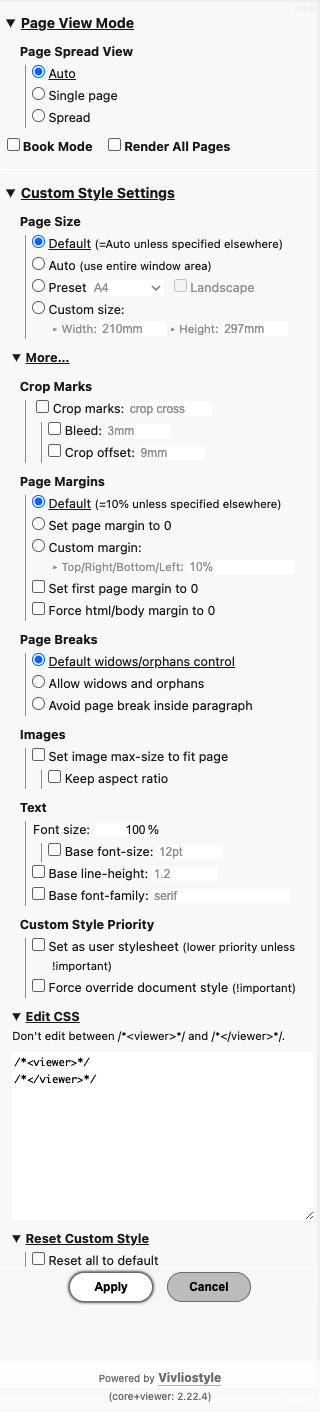
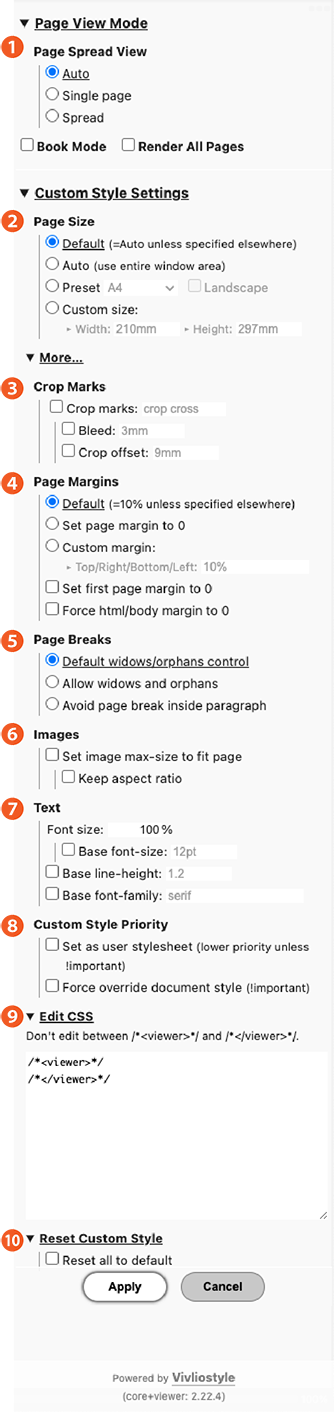
残り全て

diff --git a/ja/vivliostyle-viewer.md b/ja/vivliostyle-viewer.md
@@ -55,44 +55,59 @@ Node.js のアプリケーションで利用するには、npmパッケージ版
 
 ## 設定パネル
 
+Vivliostyle Viewer の画面右上の設定ボタン<img alt="Settings (S)" src="../images/vivliostyle-icon.png" style="width: 1.5em;"> をクリック（またはキーボードのSを押下）すると、設定パネルが表示されます。
 
+この設定パネルから各種パラメーターを設定し、“Apply” ボタンを押すことで、組版表示を変更することができます（通常は “Apply” の押下後パネルは閉じますが、設定ボタンを2度押しして開いた場合、押下後もパネルを開いたままにできます）。
 
-Vivliostyle Viewer の画面右上の設定ボタン<img alt="Settings (S)" src="../images/vivliostyle-icon.png" style="width: 1.5em;"> をクリック（または、キーボードの S キー）すると、設定パネルが表示されます。
+設定パネルで設定した内容は、URLパラメータに反映されます。そうした設定付きURLを、ブックマークしたり公開することもできます。 例： [『Cascading Style Sheets Level 2 Revision 2 (CSS 2.2) Specification』](https://vivliostyle.org/viewer/#src=https://drafts.csswg.org/css2/&style=data:,/*%3Cviewer%3E*/%0A/*%3C/viewer%3E*/%0A@page%20:first%20%7B%0A%20%20@top-left%20%7B%0A%20%20%20%20content:%20none;%0A%20%20%7D%0A%20%20@top-right%20%7B%0A%20%20%20%20content:%20none;%0A%20%20%7D%0A%20%20@bottom-center%20%7B%0A%20%20%20%20content:%20none;%0A%20%20%7D%0A%7D%0A%0A@page%20:left%20%7B%0A%20%20font-size:%200.8rem;%0A%20%20@top-left%20%7B%0A%20%20%20%20content:%20env(pub-title);%0A%20%20%7D%0A%20%20@bottom-center%20%7B%0A%20%20%20%20content:%20counter(page);%0A%20%20%7D%0A%7D%0A%0A@page%20:right%20%7B%0A%20%20font-size:%200.8rem;%0A%20%20@top-right%20%7B%0A%20%20%20%20content:%20env(doc-title);%0A%20%20%7D%0A%20%20@bottom-center%20%7B%0A%20%20%20%20content:%20counter(page);%0A%20%20%7D%0A%7D)。
 
-この設定パネルから各種パラメーターを設定し、Applyボタンを押すことで、プレビューを変更することができます（Applyで通常はパネルが閉じますが、設定ボタンを2度押しで開くと、適用してもパネルが開いたままにできます）。設定できるパラメーターは下記の通りです。
+- 凡例：◉ラジオボタン、■チェックボックス、▶折りたたまれた設定項目
 
 <img src="../images/viewer-settings-panel.png" alt="設定パネル" style="float: right; margin-left: 3rem">
 
-- **Page View Mode**
-    - **❶Page Spread View**
+- **▶Page View Mode**
+    - **❶Page Spread View**：ページ表示
+        - ◉Auto：ウインドウが見開きで表示可能な縦横比であれば、自動的に見開きにします
+        - ◉Single page：常に単一ページで表示します
+        - ◉Spread：常に見開きページで表示します
+    - ■Book Mode：チェックを入れると<a href="#urlパラメータのオプション">ブックモードになります
+    - ■Render All Pages：チェックを入れると、常に全ページをレンダリングします。正確なノンブルが表示される反面、表示まで時間がかかります。通常はチェックを入れずに使うことをお勧めします。詳細は[「全ページをレンダリング（Render All Pages）On/Off設定」](https://vivliostyle.github.io/vivliostyle_doc/ja/vivliostyle-user-group-vol1/shinyu/index.html#全ページをレンダリング（render-all-pages）onoff設定)を参照
+- **▶Custom Style Settings**
     - **❷Page Size**（ページサイズ） 
-        - Default：特に指定がないかぎり “Auto” が適用されます
-        - Auto：プレビューで開かれているウィンドウ・サイズが適用されます
-        - Preset：letter、legal、Ledger、A10〜A0、B10 (ISO)〜B0 (ISO)、JIS-B10〜JIS-B0、C10〜C0（なお、日本で使われるB判は「JIS-B」であることにご注意ください）
-        - Custom size：任意の幅と高さを指定できます。単位は CSSの単位（mm, cm, in, pt, px など）が使えます。
-    - **Page Margins**
-        - Default (=10% unless specified elsewhere)
-        - Set page margin to 0
-        - Custom margin:
-            - ‣ Top/Right/Bottom/Left: （10%）
-            - Set first page margin to 0
-            - Force html/body margin to 0
-    - **Page Breaks**
-        - Default widows/orphans control
-        - Allow widows and orphans
-        - Avoid page break inside paragraph
-    - **Images**
-        - Set image max-size to fit page
-        - Keep aspect ratio
-    - **Text**
-      - Font size:100%
-        - Base font-size:12pt
-        - Base line-height:1.2
-    - **Custom Style Priority**
-        - Set as user stylesheet (lower priority unless !important)
-        - Force override document style (!important)
-    - **Edit CSS**
-    - **Reset Custom Style**
+        - ◉Default：文書でページサイズ指定されていればそのサイズが、指定されていない場合はVivliostyle Viewerのデフォルト値、A4が適用されます
+        - ◉Auto：その時開かれているウィンドウのサイズが適用されます
+        - ◉Preset：次の値の中から選択できます。letter、legal、Ledger、A10〜A0、B10 (ISO)〜B0 (ISO)、JIS-B10〜JIS-B0、C10〜C0（なお、日本で使われるB判は「JIS-B」であることにご注意ください）
+            - ■Landscape：Presetで選択したサイズの横置きにします
+        - ◉Custom size：任意の幅と高さを指定できます。単位は CSSの単位（mm, cm, in, pt, px など）が使えます
+- **▶More...**
+    - **❸■Crop Marks**：トンボを入れる場合はここにチェックを入れます。Bleedにも自動的にチェックが入ります。コーナートンボだけを入れたい場合は`crop`、センタートンボだけを入れたい場合は`cross`と記述します。デフォルトは`crop cross`、つまり両方入ります
+        - ■Bleed:コーナートンボにおける裁ち切り線（外側の線）と仕上がり線（内側の線）の間隔を単位付きの数値で指定します（通常は`3mm`）
+        - ■Crop offset:トンボから用紙端までの余白サイズを指定したい場合は単位付きの数値で指定します。単位はCSSの単位（mm, cm, in, pt, px など）が使えます
+    - **❹Page Margins**：ページ余白
+        - ◉Default (=10% unless specified elsewhere)：デフォルトとして上下左右の余白をページサイズ（高さ／幅）の10%ずつにします
+        - ◉Set page margin to 0：ページ余白を0にします。固定レイアウトのEPUBなど、画面いっぱいに表示するのに適したコンテンツを閲覧するのに向いています
+        - ◉Custom margin：任意のページ余白を指定できます。上右左下の順でそれぞれを半角スペースで区切って記述します。また、`20mm 15mm 10mm`などと3つの値を記述すると、上の余白が`20mm`、右と左の余白が**ともに**`15mm`、下の余白が`10mm`になります。
+        - ■Set first page margin to 0：最初のページ余白を0にします。最初のページがカバー画像で余白は不要の場合は、ここにチェックを入れます
+        - ■Force html/body margin to 0：html/bodyマージンを0にします。もともとHTML文書で指定されているスタイルシートで`body`要素にマージンが設定されている場合、Vivliostyleで設定されたページ余白が加わると余白が異常に大きくなってしまいます。そのような場合ここにチェックを入れると回避できます
+    - **❺Page Breaks**：改ページ
+        - ◉Default widows/orphans control：デフォルトとして、段落を分割する際にページの先頭／末尾に2行以上が残るように制御します
+        - ◉Allow widows and orphans：ページの先頭／末尾に1行だけ孤立する状態を許容します
+        - ◉Avoid page break inside paragraph：段落の途中で改ページしてほしくない場合に指定します。例えば音声読み上げでテキストを読む場合に、段落の途中でページが変わるとそこで読み上げが中断してしまう問題を解決します
+    - **❻Images**：画像
+        - ■Set image max-size to fit page：画像の最大サイズをページに収まるよう調整します
+        - ■Keep aspect ratio：画像サイズを変更する場合、画像の縦横比が変わらないよう調整して変更します
+    - **❼Text**：テキスト
+      - Font size：（文字サイズ）パーセント値で設定し、100%はブラウザのデフォルトと同様、16px=12ptです。この設定はツールバーにあるA- (Text: Smaller)、A+ (Text: Larger) ボタンで変更できる文字サイズと連動します 　
+        - ■Base font-size：ルート要素での`font-size`プロパティの値を設定します。実際に表示される文字サイズは **Font size** のパーセント値と掛け合わされたものになります
+          - ■Base font-size: 
+      - ■Base line-height：ルート要素での`line-height`プロパティの値を設定します。単位をつけない数値で文字サイズを基準にした行の高さを指定します。ここで指定しない場合、ブラウザと同じ`line-height: normal`が設定され、使われるフォントに依存します（おおむね1.2）
+      - ■Base font-family：ルート要素における`font-family`プロパティの値を設定します
+    - **❽Custom Style Priority**
+        - ■Set as user stylesheet (lower priority unless !important)：設定パネルでの設定内容を、ユーザースタイルシートとして設定します。デフォルトは作成者スタイルシートです。これらの違いは[CSS カスケード入門](https://developer.mozilla.org/ja/docs/Web/CSS/Cascade#%E3%82%AA%E3%83%AA%E3%82%B8%E3%83%B3%E3%81%AE%E7%A8%AE%E9%A1%9E)をご参照ください
+        - ■Force override document style (!important)：設定パネルでの設定内容により、スタイルシートを強制的に上書きします（ユーザースタイルのCSSに!importantが付く）
+- **❾▶Edit CSS**：クリックすると入力フィールドがあらわれ、それまでの設定した内容がCSSコードで確認できます。また、ここからユーザーがCSSコードを直接書くことができます。その場合、自動生成されたコメント`/*<viewer>*/`と`/*</viewer>*/`で囲まれた部分はそのままにして、その前か後にコードを追加するようにしてください
+- **❿▶Reset Custom Style**
+  - ■Reset all to default：それまでの設定内容を初期化し、デフォルトに戻します
 
 
 
